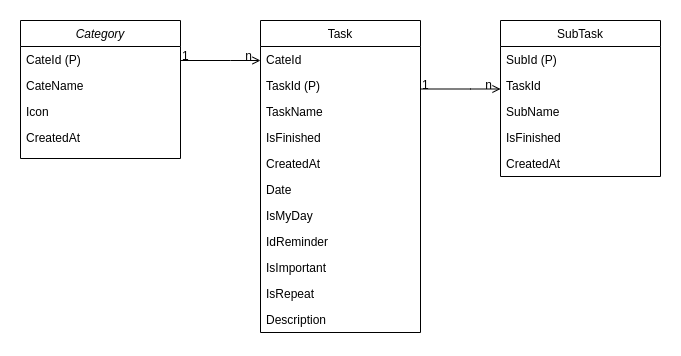
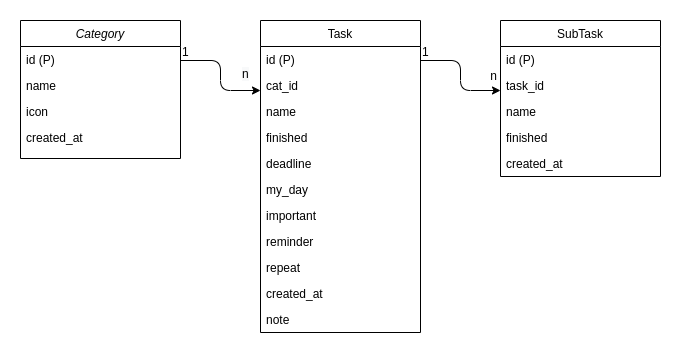
update created_at

diff --git a/docs/db.md b/docs/db.md
@@ -13,7 +13,7 @@
 | Category	| id	     | Int	| false	   | auto increment  | Primary key    | PRIMARY KEY |
 | Category	| name	     | String 	| false    |		     | Category's name|		    |
 | Category 	| icon	     | String  	| true	   | 		     | Category's icon| 	    |
-| Category	| created_at | String 	| false	   | system's date   | Created date   |		    |
+| Category	| created_at | Date	| false	   | system's date   | Created date   |		    |
 
 #### Task
 
@@ -47,6 +47,6 @@ Lưu các giá trị:
 | Subtask	| id	      | Int	| false	   | auto increment  | Primary key    | PRIMARY KEY |
 | Subtask	| task_id     | Int	| false    |		     | Task's name    |		    |
 | Subtask 	| name	      | String  | false	   | 		     | Subtask's name | 	    |
-| Subtask	| is_finished | Boolean | true	   | false  	     | Finished       |		    |
+| Subtask	| finished    | Boolean | true	   | false  	     | Finished       |		    |
 | Subtask	| created_at  | String 	| false	   | system's date   | Created date   |		    |
 
